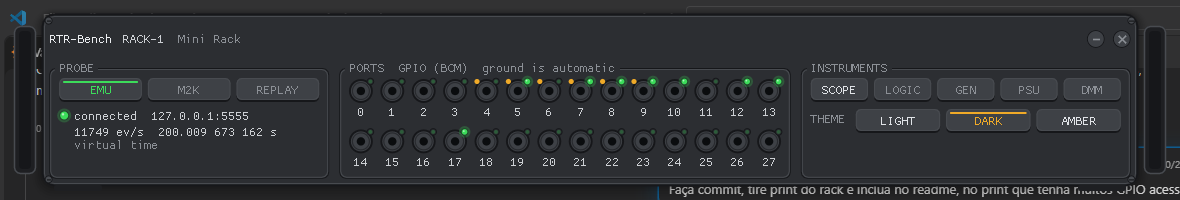
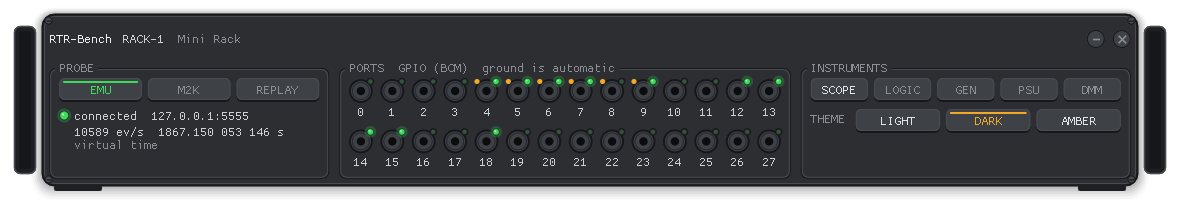
Screenshots from the framebuffer, with alpha
rtr-bench --screenshot FILE.png [--delay S] saves the rack from its own
framebuffer after the delay and quits, so the transparent margins stay
transparent instead of showing whatever was behind the window. Minimal PNG
writer (stored deflate), no dependency. scripts/screenshot.ps1 uses it and
waits for the GUI process. README screenshot regenerated with the counter
program driving GPIO 4 to 19.

diff --git a/src/ui/png.cpp b/src/ui/png.cpp
@@ -1,0 +1,125 @@
+// SPDX-License-Identifier: Apache-2.0
+#include "ui/png.h"
+
+#include <cstdio>
+#include <vector>
+
+namespace ui {
+
+namespace {
+
+uint32_t crc_table[256];
+bool crc_ready = false;
+
+void crc_init()
+{
+    for (uint32_t n = 0; n < 256; n++) {
+        uint32_t c = n;
+        for (int k = 0; k < 8; k++) {
+            c = (c & 1u) ? (0xEDB88320u ^ (c >> 1u)) : (c >> 1u);
+        }
+        crc_table[n] = c;
+    }
+    crc_ready = true;
+}
+
+uint32_t crc32(const uint8_t *data, size_t size, uint32_t crc = 0xFFFFFFFFu)
+{
+    if (!crc_ready) {
+        crc_init();
+    }
+    for (size_t i = 0; i < size; i++) {
+        crc = crc_table[(crc ^ data[i]) & 0xFFu] ^ (crc >> 8u);
+    }
+    return crc;
+}
+
+void put32(std::vector<uint8_t> &out, uint32_t v)
+{
+    out.push_back(static_cast<uint8_t>(v >> 24u));
+    out.push_back(static_cast<uint8_t>(v >> 16u));
+    out.push_back(static_cast<uint8_t>(v >> 8u));
+    out.push_back(static_cast<uint8_t>(v));
+}
+
+void chunk(std::vector<uint8_t> &out, const char *type, const std::vector<uint8_t> &data)
+{
+    put32(out, static_cast<uint32_t>(data.size()));
+    size_t start = out.size();
+    out.insert(out.end(), type, type + 4);
+    out.insert(out.end(), data.begin(), data.end());
+    uint32_t crc = crc32(out.data() + start, out.size() - start) ^ 0xFFFFFFFFu;
+    put32(out, crc);
+}
+
+// zlib stream with stored (uncompressed) deflate blocks of up to 65535 bytes.
+std::vector<uint8_t> zlib_store(const std::vector<uint8_t> &raw)
+{
+    std::vector<uint8_t> z;
+    z.push_back(0x78);
+    z.push_back(0x01);
+    size_t pos = 0;
+    do {
+        size_t len = raw.size() - pos;
+        if (len > 65535) {
+            len = 65535;
+        }
+        bool last = pos + len == raw.size();
+        z.push_back(last ? 1 : 0);
+        z.push_back(static_cast<uint8_t>(len & 0xFFu));
+        z.push_back(static_cast<uint8_t>(len >> 8u));
+        z.push_back(static_cast<uint8_t>(~len & 0xFFu));
+        z.push_back(static_cast<uint8_t>((~len >> 8u) & 0xFFu));
+        z.insert(z.end(), raw.begin() + static_cast<std::ptrdiff_t>(pos),
+                 raw.begin() + static_cast<std::ptrdiff_t>(pos + len));
+        pos += len;
+    } while (pos < raw.size());
+    uint32_t a = 1;
+    uint32_t b = 0;
+    for (uint8_t byte : raw) {
+        a = (a + byte) % 65521u;
+        b = (b + a) % 65521u;
+    }
+    put32(z, (b << 16u) | a);
+    return z;
+}
+
+}  // namespace
+
+bool write_png(const std::string &path, int width, int height, const uint8_t *rgba)
+{
+    if (width <= 0 || height <= 0) {
+        return false;
+    }
+    size_t w = static_cast<size_t>(width);
+    size_t h = static_cast<size_t>(height);
+    std::vector<uint8_t> raw;
+    raw.reserve(h * (w * 4 + 1));
+    for (size_t y = 0; y < h; y++) {
+        raw.push_back(0);  // filter: none
+        raw.insert(raw.end(), rgba + y * w * 4, rgba + (y + 1) * w * 4);
+    }
+
+    std::vector<uint8_t> out = {0x89, 'P', 'N', 'G', 0x0D, 0x0A, 0x1A, 0x0A};
+    std::vector<uint8_t> ihdr;
+    put32(ihdr, static_cast<uint32_t>(width));
+    put32(ihdr, static_cast<uint32_t>(height));
+    ihdr.push_back(8);  // bit depth
+    ihdr.push_back(6);  // RGBA
+    ihdr.push_back(0);
+    ihdr.push_back(0);
+    ihdr.push_back(0);
+    chunk(out, "IHDR", ihdr);
+    chunk(out, "IDAT", zlib_store(raw));
+    chunk(out, "IEND", {});
+
+    std::FILE *f = std::fopen(path.c_str(), "wb");
+    if (!f) {
+        return false;
+    }
+    bool ok = std::fwrite(out.data(), 1, out.size(), f) == out.size();
+    std::fclose(f);
+    return ok;
+}
+
+}  // namespace ui

diff --git a/src/app/main.cpp b/src/app/main.cpp
@@ -1,22 +1,53 @@
 // SPDX-License-Identifier: Apache-2.0
 // RTR-Bench - Real-time Raspberry Bench. Entry point.
 #include <cstdio>
+#include <cstdlib>
 #include <cstring>
+#include <exception>
 
 #include "app/app.h"
 
-int main(int argc, char **argv)
+namespace {
+
+int run(int argc, char **argv)
 {
+    app::App app;
+    const char *screenshot = nullptr;
+    double delay = 5.0;
     for (int i = 1; i < argc; i++) {
         if (std::strcmp(argv[i], "--version") == 0) {
             std::printf("rtr-bench %s\n", RTR_BENCH_VERSION);
             return 0;
         }
-        if (std::strcmp(argv[i], "--help") == 0) {
-            std::printf("usage: rtr-bench [--version]\n");
-            return 0;
+        if (std::strcmp(argv[i], "--screenshot") == 0 && i + 1 < argc) {
+            screenshot = argv[++i];
+        } else if (std::strcmp(argv[i], "--delay") == 0 && i + 1 < argc) {
+            char *end = nullptr;
+            delay = std::strtod(argv[++i], &end);
+            if (end == argv[i] || delay < 0.0) {
+                std::printf("rtr-bench: bad --delay value\n");
+                return 2;
+            }
+        } else {
+            std::printf("usage: rtr-bench [--version] [--screenshot FILE.png [--delay SECONDS]]\n"
+                        "  --screenshot  writes a PNG of the rack (with alpha) after the delay and quits\n");
+            return std::strcmp(argv[i], "--help") == 0 ? 0 : 2;
         }
     }
-    app::App app;
+    if (screenshot) {
+        app.screenshot(screenshot, delay);
+    }
     return app.run();
+}
+
+}  // namespace
+
+int main(int argc, char **argv)
+{
+    try {
+        return run(argc, argv);
+    } catch (const std::exception &e) {
+        std::fprintf(stderr, "rtr-bench: %s\n", e.what());
+        return 1;
+    }
 }

diff --git a/src/ui/window.cpp b/src/ui/window.cpp
@@ -1,13 +1,17 @@
 // SPDX-License-Identifier: Apache-2.0
 #include "ui/window.h"
 
+#include <algorithm>
 #include <cstdio>
+#include <vector>
 
 #include <GLFW/glfw3.h>
 #include <imgui.h>
 #include <imgui_impl_glfw.h>
 #include <imgui_impl_opengl3.h>
 #include <implot.h>
+
+#include "ui/png.h"
 
 namespace ui {
 
@@ -176,6 +180,24 @@ bool Window::frame()
     glClearColor(0.0f, 0.0f, 0.0f, 0.0f);
     glClear(GL_COLOR_BUFFER_BIT);
     ImGui_ImplOpenGL3_RenderDrawData(ImGui::GetDrawData());
+    if (!capture_path_.empty()) {
+        // Read the back buffer before the swap: straight RGBA, bottom row first.
+        std::vector<uint8_t> pixels(static_cast<size_t>(width) * static_cast<size_t>(height) * 4);
+        glPixelStorei(GL_PACK_ALIGNMENT, 1);
+        glReadPixels(0, 0, width, height, GL_RGBA, GL_UNSIGNED_BYTE, pixels.data());
+        std::vector<uint8_t> flipped(pixels.size());
+        size_t row = static_cast<size_t>(width) * 4;
+        for (int y = 0; y < height; y++) {
+            std::copy(pixels.begin() + static_cast<std::ptrdiff_t>(static_cast<size_t>(height - 1 - y) * row),
+                      pixels.begin() + static_cast<std::ptrdiff_t>(static_cast<size_t>(height - y) * row),
+                      flipped.begin() + static_cast<std::ptrdiff_t>(static_cast<size_t>(y) * row));
+        }
+        if (!write_png(capture_path_, width, height, flipped.data())) {
+            std::fprintf(stderr, "rtr-bench: cannot write %s\n", capture_path_.c_str());
+        }
+        capture_path_.clear();
+        captured_ = true;
+    }
     glfwSwapBuffers(window_);
     return !close_requested_;
 }

diff --git a/src/app/app.cpp b/src/app/app.cpp
@@ -104,6 +104,12 @@ void App::set_theme(ui::ThemeKind kind)
     ui::set_theme(kind);
 }
 
+void App::screenshot(const std::string &path, double delay_seconds)
+{
+    screenshot_path_ = path;
+    screenshot_delay_ = delay_seconds;
+}
+
 // Once per frame: drain the probe into the port state and keep the rate.
 void App::pump_probe()
 {
@@ -143,9 +149,20 @@ int App::run()
     }
     probe_->connect();
 
+    auto start = std::chrono::steady_clock::now();
+    bool capture_asked = false;
     while (rack_window_ && !rack_window_->close_requested()) {
         ui::platform_poll();
         pump_probe();
+        if (!screenshot_path_.empty()) {
+            double elapsed = std::chrono::duration<double>(std::chrono::steady_clock::now() - start).count();
+            if (!capture_asked && elapsed >= screenshot_delay_) {
+                rack_window_->capture(screenshot_path_);
+                capture_asked = true;
+            } else if (rack_window_->captured()) {
+                rack_window_->request_close();
+            }
+        }
         rack_window_->frame();
         for (OpenInstrument &i : instruments_) {
             i.window->frame();

diff --git a/src/app/app.h b/src/app/app.h
@@ -5,6 +5,7 @@
 
 #include <chrono>
 #include <memory>
+#include <string>
 #include <vector>
 
 #include "app/rack.h"
@@ -25,6 +26,10 @@ public:
 
     // Runs until the rack closes. Returns the process exit code.
     int run();
+
+    // Writes a PNG of the rack after `delay_seconds` of running, then quits
+    // (for the documentation screenshots).
+    void screenshot(const std::string &path, double delay_seconds);
 
     // For the rack and the instruments.
     core::Probe &probe() { return *probe_; }
@@ -50,6 +55,9 @@ private:
         std::unique_ptr<ui::Window> window;
     };
     std::vector<OpenInstrument> instruments_;
+
+    std::string screenshot_path_;
+    double screenshot_delay_ = 0.0;
 
     uint64_t last_event_count_ = 0;
     std::chrono::steady_clock::time_point last_rate_time_;

diff --git a/src/ui/window.h b/src/ui/window.h
@@ -50,6 +50,11 @@ public:
     void minimize();
     void raise();   // bring to front and focus
 
+    // Saves the next rendered frame as a PNG with alpha (the transparent
+    // margins stay transparent). Returns through `done` when written.
+    void capture(const std::string &path) { capture_path_ = path; }
+    bool captured() const { return captured_; }
+
     // Pixels per logical unit on the monitor the window is on (HiDPI).
     float scale() const { return scale_; }
 
@@ -70,6 +75,8 @@ private:
     int move_origin_y_ = 0;
     double grab_x_ = 0.0;     // cursor position at the press, screen coordinates
     double grab_y_ = 0.0;
+    std::string capture_path_;
+    bool captured_ = false;
 };
 
 // Process-wide GLFW state.

diff --git a/src/ui/png.h b/src/ui/png.h
@@ -1,0 +1,15 @@
+// SPDX-License-Identifier: Apache-2.0
+// RTR-Bench - minimal PNG writer (RGBA, stored deflate), for screenshots of
+// the windows with their transparent margins. No compression: the files are
+// larger than they could be, but there is no dependency.
+#pragma once
+
+#include <cstdint>
+#include <string>
+
+namespace ui {
+
+// `rgba` is width*height*4 bytes, top row first. Returns false on I/O error.
+bool write_png(const std::string &path, int width, int height, const uint8_t *rgba);
+
+}  // namespace ui

diff --git a/README.md b/README.md
@@ -44,12 +44,12 @@ The full plan, with the reason behind each choice, is in [`docs/PLANO.md`](docs/
 
 Stage 1 of the plan: the rack is up and connected to the emulator.
 
-![The rack, dark theme, connected to the emulated RTR-OS](docs/screenshots/rack-dark.png)
+![The rack, dark theme, connected to the emulated RTR-OS running a 16-bit counter on GPIO 4 to 19](docs/screenshots/rack-dark.png)
 
 - One process, one window per instrument: undecorated, transparent framebuffer, the chassis drawn with handles, bevel, header and window controls; drag by the panel.
 - `Probe` interface and the **emulator probe**: a thread connects to the `rtr-scope` device (TCP, reconnects by itself), parses the stream (today's format and the planned version 2) and hands the events to the interface through a lock-free queue.
 - The **rack**: probe keys and state, event rate and virtual clock, the 28 GPIOs of the header as jacks with a level LED and an activity mark, keys that open the instruments, the three themes.
-- `rtr-probe-dump`: console tool that prints what the probe sends.
+- `rtr-probe-dump`: console tool that prints what the probe sends; `rtr-bench --screenshot FILE.png` saves the rack with its transparent margins (`scripts\screenshot.ps1`).
 - Windowless tests (Catch2): protocol parser, event queue, port state, themes.
 
 Not there yet: the instruments themselves (the oscilloscope opens with a placeholder screen), wires, fonts of our own (the default ImGui font is still in use), settings persistence.
